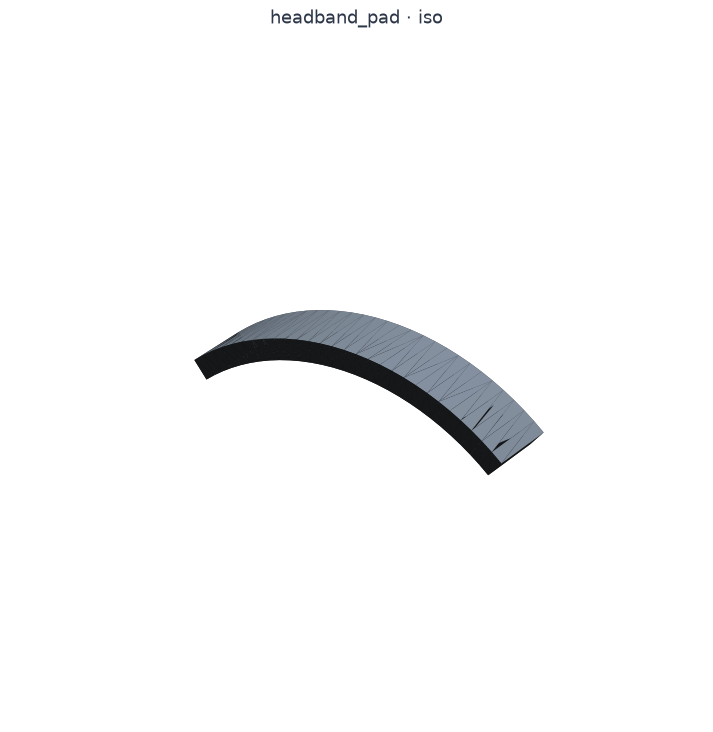
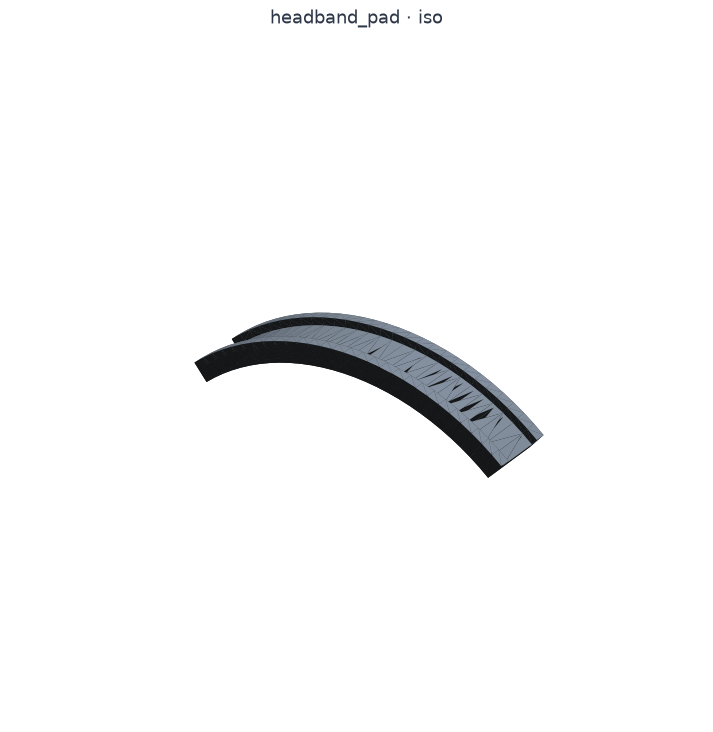
Orange accent dot + headband pad retention
Add parts/grille_dot.py: a warm-orange press-in cap for the grille center (the
mark's only accent; single-extruder builds can't print two-tone, so it's a
separate part). Add a retention channel to the headband pad so the bow nests in
and the pad's side rails grip it (rough press fit, TBD). Both manifold-gated.
Placed/coloured in the assembly next. Build 8/8, gate PASS.

Changed region(s): [[0.2777, 0.4208, 0.7714, 0.6612]]

diff --git a/params.py b/params.py
@@ -66,6 +66,11 @@ class Params:
     grille_lattice_ring_count: int = 3    # ESTIMATE  fine support rings in the open zones
     grille_lattice_member_width: float = 2.0  # ESTIMATE  lattice member width (= floor)
     grille_open_min: float = 0.30         # gate band lower bound (see gate.py OPEN_MIN)
+    # Orange ACCENT dot — a press-in cap at the grille center (the mark's only
+    # accent, printed in the warm orange). Seats on the grille hub, stands proud
+    # on the outboard face.
+    grille_dot_diameter: float = 9.0      # ESTIMATE  accent dot (<= hub dia, seats on it)
+    grille_dot_proud: float = 1.5         # ESTIMATE  stands proud of the grille face
 
     # ---- Baffle-mounting bosses in the cup (wall-blended) --------------------
     # Four heat-set bosses on the diagonals (45/135/225/315), blended into the
@@ -227,6 +232,7 @@ class Params:
     headband_pad_arc_degrees: float = 80.0   # ESTIMATE  contact arc at the crown
     headband_pad_thickness: float = 8.0      # ESTIMATE  cushion depth (radial)
     headband_pad_width: float = 26.0         # ESTIMATE  wider than the bow, for comfort
+    headband_pad_channel_depth: float = 3.0  # ESTIMATE  bow nests this deep; side rails grip it
 
     # ---- Mechanical primitives (convention; see parts/features.py) ----------
     boss_base_fillet: float = 1.0         # fillet tying a boss to its host (print)

diff --git a/parts/headband_pad.py b/parts/headband_pad.py
@@ -34,13 +34,29 @@ def make_headband_pad() -> cq.Workplane:
 
     Ao, Mo, Bo = p(ro, a0), p(ro, am), p(ro, a1)
     Bi, Mi, Ai = p(ri, a1), p(ri, am), p(ri, a0)
-    return (
+    pad = (
         cq.Workplane("XZ")
         .moveTo(*Ao).threePointArc(Mo, Bo)
         .lineTo(*Bi).threePointArc(Mi, Ai)
         .close()
         .extrude(P.headband_pad_width / 2, both=True)
     )
+
+    # Retention channel: the bow nests into the pad's outer (bow-facing) face so
+    # the pad's side rails grip the bow edges — a rough press/snap fit (TBD). Cut a
+    # narrower arc band (bow width + clearance, along Y) out of the outer radius.
+    ch_w = P.bow_width + 1.5
+    co, ci = ro + 1.0, ro - P.headband_pad_channel_depth
+    Co, CMo, CBo = p(co, a0), p(co, am), p(co, a1)
+    CBi, CMi, CAi = p(ci, a1), p(ci, am), p(ci, a0)
+    channel = (
+        cq.Workplane("XZ")
+        .moveTo(*Co).threePointArc(CMo, CBo)
+        .lineTo(*CBi).threePointArc(CMi, CAi)
+        .close()
+        .extrude(ch_w / 2, both=True)
+    )
+    return pad.cut(channel)
 
 
 if __name__ == "__main__":

diff --git a/parts/grille_dot.py b/parts/grille_dot.py
@@ -1,0 +1,28 @@
+# SPDX-FileCopyrightText: 2026 Jamey Warren
+# SPDX-License-Identifier: MIT
+
+"""
+Grille accent dot — the warm-orange center cap of the rear grille.
+
+The makerphones mark's dot is its only accent (the rings are never filled). On a
+single-extruder FDM build you can't print one part two-tone, so the accent is a
+SEPARATE small part printed in the warm orange and pressed into the grille hub —
+modular, on-brand, serviceable. Modelled at the cup's grille face (z=0) standing
+proud toward the outboard (-Z); placed + coloured in the assembly. ESTIMATE dims.
+"""
+
+import cadquery as cq
+from params import P
+
+
+def make_grille_dot() -> cq.Workplane:
+    return (
+        cq.Workplane("XY")
+        .circle(P.grille_dot_diameter / 2)
+        .extrude(-P.grille_dot_proud)        # proud of the grille face, outboard
+    )
+
+
+if __name__ == "__main__":
+    cq.exporters.export(make_grille_dot(), "output/grille_dot.stl")
+    print("wrote output/grille_dot.stl")

diff --git a/gate.py b/gate.py
@@ -33,6 +33,7 @@ from parts.yoke import make_yoke
 from parts.slider import make_slider
 from parts.adapter_ring import make_adapter_ring
 from parts.headband_pad import make_headband_pad
+from parts.grille_dot import make_grille_dot
 from parts.hardware import shoulder_screw_envelope, heatset_insert_envelope
 
 # ---- Thresholds (named + transparent; not new checks, just the limits) -------
@@ -183,8 +184,10 @@ def main():
     slider = make_slider()
     adapter = make_adapter_ring()
     headband_pad = make_headband_pad()
+    grille_dot = make_grille_dot()
     parts = {"cup": cup, "baffle": baffle, "yoke": yoke, "slider": slider,
-             "adapter_ring": adapter, "headband_pad": headband_pad}
+             "adapter_ring": adapter, "headband_pad": headband_pad,
+             "grille_dot": grille_dot}
 
     r = Report()
 

diff --git a/build.py b/build.py
@@ -32,6 +32,7 @@ from parts.slider import make_slider
 from parts.bow import make_bow
 from parts.adapter_ring import make_adapter_ring
 from parts.headband_pad import make_headband_pad
+from parts.grille_dot import make_grille_dot
 
 # render.py is RENDER-ONLY (matplotlib). Guarded so the core build never depends
 # on it: no matplotlib → rendering simply skips, parts still build.
@@ -53,6 +54,7 @@ PRINTED = {
 ACCESSORY = {
     "adapter_ring": make_adapter_ring,
     "headband_pad": make_headband_pad,
+    "grille_dot": make_grille_dot,
 }
 # Reference bodies → STEP only (NOT printed).
 REFERENCE = {

diff --git a/docs/DESIGN-LOG.md b/docs/DESIGN-LOG.md
@@ -6,6 +6,20 @@ just the result. Newest entries at the top.
 
 ---
 
+## 2026-06-24 — Orange accent dot + headband pad retention
+
+- **Orange accent dot** (`parts/grille_dot.py`): the makerphones mark's dot is its
+  only accent, so the grille center gets a separate warm-orange cap (press-in;
+  single-extruder builds can't print two-tone in one part — modular + on-brand).
+  Seats on the grille hub, stands `grille_dot_proud=1.5` mm proud of the grille
+  face. Placed + coloured in the assembly (next).
+- **Headband pad retention**: the pad was a floating band. Cut a retention channel
+  (`headband_pad_channel_depth=3`) into its bow-facing face — the bow nests in and
+  the pad's ~4 mm side rails grip its edges (rough press/snap fit; exact retention
+  TBD). Build 8/8, gate PASS (both new parts manifold).
+
+---
+
 ## 2026-06-24 — Form polish: smoother yoke + clearer baffle pad lip
 
 Two refinements from the live-model review. Build 7/7, gate PASS.
